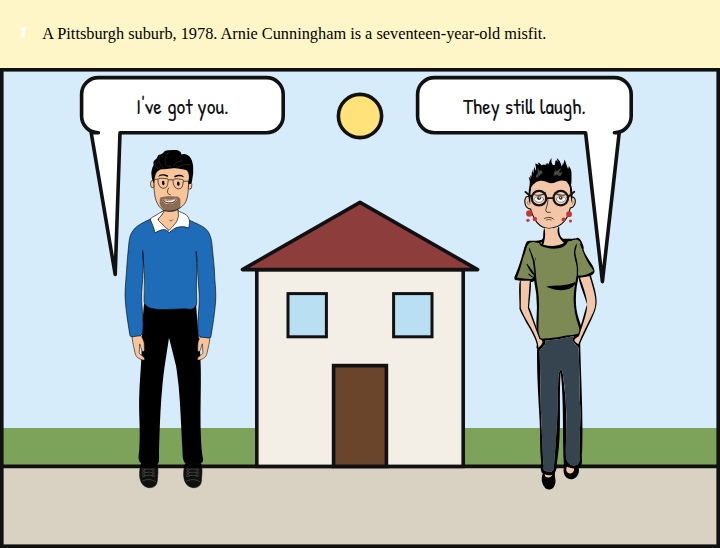
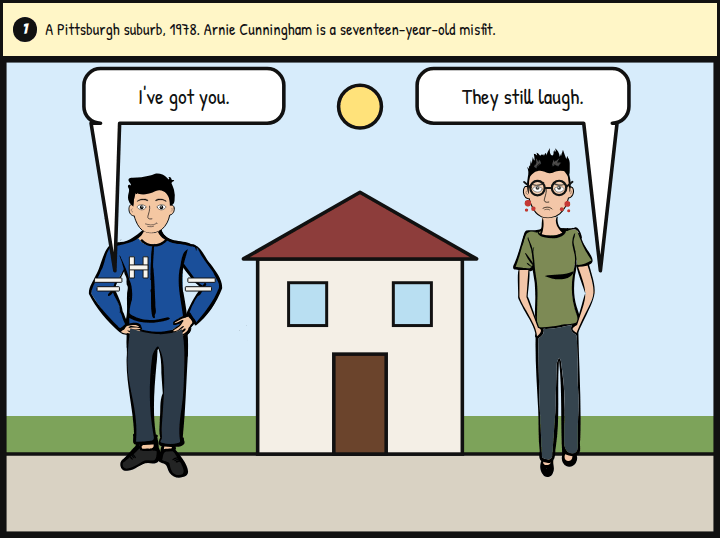
Redraw Dennis as a clean-shaven teenager and fix the car scenes.
Dennis is now a young Aavatar in a blue letterman jacket. Arnie points at the Plymouth, and the night scene shows the whole car under a streetlamp.

Changed region(s): [[0.0, 0.0, 1.0, 1.0], [0.4583, 0.6543, 0.55, 0.684], [0.3972, 0.5948, 0.4583, 0.6245]]

diff --git a/_includes/comicbook-christine.html b/_includes/comicbook-christine.html
@@ -26,10 +26,10 @@
   <rect x="328" y="188" width="32" height="36" fill="#b9dff2" stroke="#111" stroke-width="2.5"/>
   <rect x="278" y="248" width="44" height="84" fill="#6b442c" stroke="#111" stroke-width="3"/>
 </g>
-<image href="{{ '/assets/comics/christine/dennis-smile.svg' | relative_url }}" x="100" y="64" width="84" height="290"/>
+<image href="{{ '/assets/comics/christine/dennis-smile.svg' | relative_url }}" x="68" y="92" width="142" height="264"/>
 <image href="{{ '/assets/comics/christine/arnie-worried.svg' | relative_url }}" x="424" y="70" width="78" height="286"/>
 <g class="bubble">
-<path d="M82,8H222A14,14 0 0 1 236,22V40A14,14 0 0 1 222,54H100L96,172L76,54H82A14,14 0 0 1 68,40V22A14,14 0 0 1 82,8Z" fill="#fff" stroke="#111" stroke-width="3" stroke-linejoin="round"/>
+<path d="M82,8H222A14,14 0 0 1 236,22V40A14,14 0 0 1 222,54H98L94,178L74,54H82A14,14 0 0 1 68,40V22A14,14 0 0 1 82,8Z" fill="#fff" stroke="#111" stroke-width="3" stroke-linejoin="round"/>
 <text x="152" y="38" font-family="'Patrick Hand', 'Comic Neue', 'Comic Sans MS', cursive" font-size="18" fill="#111" text-anchor="middle">I've got you.</text>
 </g>
 <g class="bubble">
@@ -56,7 +56,7 @@
   <rect x="350" y="196" width="30" height="34" fill="#b9dff2" stroke="#111" stroke-width="2.5"/>
   <rect x="286" y="252" width="40" height="84" fill="#6b442c" stroke="#111" stroke-width="3"/>
 </g>
-<image href="{{ '/assets/comics/christine/dennis-curious.svg' | relative_url }}" x="88" y="92" width="78" height="268"/>
+<image href="{{ '/assets/comics/christine/dennis-curious.svg' | relative_url }}" x="66" y="100" width="138" height="257"/>
 <image href="{{ '/assets/comics/christine/leigh-smile.svg' | relative_url }}" x="246" y="78" width="102" height="280"/>
 <image href="{{ '/assets/comics/christine/arnie-blush.svg' | relative_url }}" x="412" y="88" width="90" height="270"/>
 <g class="bubble">
@@ -88,16 +88,16 @@
   <rect x="268" y="146" width="26" height="28" fill="#b9dff2" stroke="#111" stroke-width="2.5"/>
   <rect x="340" y="146" width="26" height="28" fill="#b9dff2" stroke="#111" stroke-width="2.5"/>
 </g>
-<ellipse cx="170" cy="292" rx="34" ry="14" fill="#fff4c4" opacity=".6"/>
-<image href="{{ '/assets/comics/christine/car-rust.svg' | relative_url }}" x="148" y="210" width="320" height="131"/>
-<image href="{{ '/assets/comics/christine/arnie-excited.svg' | relative_url }}" x="78" y="108" width="142" height="264"/>
-<image href="{{ '/assets/comics/christine/dennis-sad-side.svg' | relative_url }}" x="388" y="116" width="116" height="235" transform="translate(892,0) scale(-1,1)"/>
+<ellipse cx="176" cy="227" rx="28" ry="10" fill="#fff4c4" opacity=".75"/>
+<image href="{{ '/assets/comics/christine/car-rust.svg' | relative_url }}" x="150" y="164" width="270" height="110"/>
+<image href="{{ '/assets/comics/christine/arnie-excited.svg' | relative_url }}" x="108" y="160" width="110" height="204"/>
+<image href="{{ '/assets/comics/christine/dennis-sad-side.svg' | relative_url }}" x="384" y="178" width="98" height="186"/>
 <g class="bubble">
-<path d="M82,8H204A14,14 0 0 1 218,22V40A14,14 0 0 1 204,54H96L84,178L70,54H82A14,14 0 0 1 68,40V22A14,14 0 0 1 82,8Z" fill="#fff" stroke="#111" stroke-width="3" stroke-linejoin="round"/>
+<path d="M82,8H204A14,14 0 0 1 218,22V40A14,14 0 0 1 204,54H174L160,232L148,54H82A14,14 0 0 1 68,40V22A14,14 0 0 1 82,8Z" fill="#fff" stroke="#111" stroke-width="3" stroke-linejoin="round"/>
 <text x="143" y="38" font-family="'Patrick Hand', 'Comic Neue', 'Comic Sans MS', cursive" font-size="18" fill="#111" text-anchor="middle">I want her.</text>
 </g>
 <g class="bubble">
-<path d="M374,8H512A14,14 0 0 1 526,22V40A14,14 0 0 1 512,54H520L506,200L492,54H374A14,14 0 0 1 360,40V22A14,14 0 0 1 374,8Z" fill="#fff" stroke="#111" stroke-width="3" stroke-linejoin="round"/>
+<path d="M374,8H512A14,14 0 0 1 526,22V40A14,14 0 0 1 512,54H490L478,250L466,54H374A14,14 0 0 1 360,40V22A14,14 0 0 1 374,8Z" fill="#fff" stroke="#111" stroke-width="3" stroke-linejoin="round"/>
 <text x="443" y="38" font-family="'Patrick Hand', 'Comic Neue', 'Comic Sans MS', cursive" font-size="18" fill="#111" text-anchor="middle">She's a wreck.</text>
 </g>
 <rect x="1.5" y="1.5" width="597" height="397" fill="none" stroke="#111" stroke-width="3"/></svg>
@@ -166,19 +166,22 @@
 <figcaption class="cn-cap"><span class="cn-num" aria-hidden="true">6</span><span>The car's jealousy begins to take him over. TO BE CONTINUED…</span></figcaption>
 <svg class="cn-art" viewBox="0 0 600 400" role="img" aria-labelledby="cn-t6" preserveAspectRatio="xMidYMid meet"><title id="cn-t6">At night Dennis asks Arnie to come back while Arnie stays with Christine</title>
 <rect width="600" height="400" fill="#1b2744"/>
-<circle cx="268" cy="42" r="14" fill="#f4f0dd" stroke="#111" stroke-width="3"/>
-<circle cx="260" cy="38" r="11" fill="#1b2744"/>
+<circle cx="324" cy="30" r="13" fill="#f4f0dd" stroke="#111" stroke-width="3"/>
+<circle cx="318" cy="26" r="10" fill="#1b2744"/>
 <rect y="268" width="600" height="132" fill="#2a3140"/>
 <rect y="304" width="600" height="16" fill="#3e4654"/>
 <g>
-  <rect x="332" y="150" width="10" height="128" fill="#141414" stroke="#111" stroke-width="2"/>
-  <path d="M326,150 H368 L358,166 H332 Z" fill="#2c2c2c" stroke="#111" stroke-width="2" stroke-linejoin="round"/>
-  <ellipse cx="338" cy="188" rx="78" ry="52" fill="#ffe7a0" opacity=".38"/>
+  <path d="M316,96 L258,228 L374,228 Z" fill="#ffd34a"/>
+  <path d="M316,96 L284,214 L348,214 Z" fill="#ffe98a"/>
+  <rect x="312" y="90" width="8" height="150" fill="#f4f1ea" stroke="#111" stroke-width="2"/>
+  <path d="M316,98 H352" stroke="#f4f1ea" stroke-width="6"/>
+  <path d="M340,74 H376 L370,98 H346 Z" fill="#1c1c1c" stroke="#111" stroke-width="2" stroke-linejoin="round"/>
+  <rect x="348" y="80" width="18" height="10" fill="#fff4a0" stroke="#111" stroke-width="1.5"/>
 </g>
-<ellipse cx="170" cy="286" rx="42" ry="16" fill="#fff4c4" opacity=".75"/>
-<image href="{{ '/assets/comics/christine/car-shine.svg' | relative_url }}" x="148" y="210" width="320" height="131"/>
-<image href="{{ '/assets/comics/christine/dennis-sad.svg' | relative_url }}" x="86" y="84" width="82" height="282"/>
-<image href="{{ '/assets/comics/christine/arnie-cunning.svg' | relative_url }}" x="408" y="84" width="102" height="280"/>
+<ellipse cx="214" cy="249" rx="22" ry="8" fill="#fff4c4" opacity=".8"/>
+<image href="{{ '/assets/comics/christine/car-shine.svg' | relative_url }}" x="200" y="195" width="232" height="95"/>
+<image href="{{ '/assets/comics/christine/dennis-sad.svg' | relative_url }}" x="64" y="118" width="128" height="238"/>
+<image href="{{ '/assets/comics/christine/arnie-cunning.svg' | relative_url }}" x="440" y="118" width="86" height="237"/>
 <g class="bubble">
 <path d="M82,6H274A14,14 0 0 1 288,20V40A14,14 0 0 1 274,54H96L88,196L72,54H82A14,14 0 0 1 68,40V20A14,14 0 0 1 82,6Z" fill="#fff" stroke="#111" stroke-width="3" stroke-linejoin="round"/>
 <text x="178" y="38" font-family="'Patrick Hand', 'Comic Neue', 'Comic Sans MS', cursive" font-size="18" fill="#111" text-anchor="middle">Come back, Arnie.</text>
@@ -207,5 +210,5 @@
         <button type="button" class="dot" aria-label="Show scene 6"></button>
     </div>
   </div>
-  <p class="cn-credit">Fan-made, unofficial, and unaffiliated. Not endorsed by Stephen King or Viking Press. Dialogue is original. Arnie Cunningham, Leigh Cabot, and Roland LeBay are <a href="https://gramener.com/comicgen/">Gramener Comicgen</a>'s Aavatar (Devarani B and Ramya Mylavarapu, CC0), with original glasses and blemishes on Arnie. Dennis Guilder is Ethan by Devarani B (CC0). Christine and the backgrounds are original drawings (Comicgen is MIT; character art is CC0). Fonts: Patrick Hand &amp; Bangers (SIL OFL).</p>
+  <p class="cn-credit">Fan-made, unofficial, and unaffiliated. Not endorsed by Stephen King or Viking Press. Dialogue is original. Arnie Cunningham, Leigh Cabot, Roland LeBay, and Dennis Guilder are <a href="https://gramener.com/comicgen/">Gramener Comicgen</a>'s Aavatar (Devarani B and Ramya Mylavarapu, CC0). Arnie's glasses and blemishes, and Dennis's letterman jacket, are original. Christine and the backgrounds are original drawings (Comicgen is MIT; character art is CC0). Fonts: Patrick Hand &amp; Bangers (SIL OFL).</p>
 </section>

diff --git a/README.md b/README.md
@@ -63,9 +63,9 @@ The Running Man strip is fan-made, non-commercial, and based on the public premi
 
 The Gunslinger strip is fan-made, non-commercial, and based on the public premise of *The Dark Tower: The Gunslinger* (Donald M. Grant, June 1982): Roland, the last gunslinger, a lone adult, follows the man in black across a vast desert in a worn-out world, toward the Dark Tower. The strip does not follow the plot past that opening setup. It is unofficial and unaffiliated, and it is not endorsed by Stephen King or his publishers. Roland is built on Comicgen's Ethan, with an original hat, neckerchief, vest, gun belt, and sandalwood-grip revolvers. The man in black and the backgrounds are original drawings in that flat style. Comicgen has no western gunslinger.
 
-The Christine strip is fan-made, non-commercial, and based on the public premise of the novel (Viking Press, April 29, 1983): in a Pittsburgh suburb in 1978, seventeen-year-old misfit Arnie Cunningham, his girlfriend, and his friend Dennis are caught in a love triangle with a haunted 1958 Plymouth Fury. The car's previous owner calls her Christine. Arnie buys the battered car, and once she is restored she is jealous and possessive. Her jealousy begins to take him over. The strip does not follow the plot past that premise. Dialogue is original. It is unofficial and unaffiliated, and it is not endorsed by Stephen King or Viking Press. Arnie, Leigh, and Roland LeBay are Comicgen's Aavatar (Devarani B and Ramya Mylavarapu, CC0); Arnie's glasses and blemishes are original. Dennis is Ethan by Devarani B (CC0). Christine and the backgrounds are original drawings.
+The Christine strip is fan-made, non-commercial, and based on the public premise of the novel (Viking Press, April 29, 1983): in a Pittsburgh suburb in 1978, seventeen-year-old misfit Arnie Cunningham, his girlfriend, and his friend Dennis are caught in a love triangle with a haunted 1958 Plymouth Fury. The car's previous owner calls her Christine. Arnie buys the battered car, and once she is restored she is jealous and possessive. Her jealousy begins to take him over. The strip does not follow the plot past that premise. Dialogue is original. It is unofficial and unaffiliated, and it is not endorsed by Stephen King or Viking Press. Arnie, Leigh, Roland LeBay, and Dennis are Comicgen's Aavatar (Devarani B and Ramya Mylavarapu, CC0). Arnie's glasses and blemishes, and Dennis's letterman jacket, are original. Christine and the backgrounds are original drawings.
 
 - **Comicgen** by Gramener ([gramener.com/comicgen](https://gramener.com/comicgen/), [github.com/gramener/comicgen](https://github.com/gramener/comicgen)); code under MIT.
-- **Character art** uses Comicgen CC0 character assets, including Sophie. The Running Man strip uses Ethan by Devarani B; Dee, Dey, and Ringo by Ramya Mylavarapu; and Bill by Renel McCullum (CC0). Sheila is Dee. The producer is Bill. The baby is original fan art in that flat style. The Gunslinger's Roland is Comicgen's Ethan by Devarani B (CC0), dressed with original western gear. The man in black is an original drawing in that flat style. The Christine strip uses Aavatar by Devarani B and Ramya Mylavarapu (CC0) for Arnie Cunningham, Leigh Cabot, and Roland LeBay, and Ethan by Devarani B (CC0) for Dennis Guilder. Arnie's glasses and blemishes, the Plymouth, and the backgrounds are original drawings in that flat style.
+- **Character art** uses Comicgen CC0 character assets, including Sophie. The Running Man strip uses Ethan by Devarani B; Dee, Dey, and Ringo by Ramya Mylavarapu; and Bill by Renel McCullum (CC0). Sheila is Dee. The producer is Bill. The baby is original fan art in that flat style. The Gunslinger's Roland is Comicgen's Ethan by Devarani B (CC0), dressed with original western gear. The man in black is an original drawing in that flat style. The Christine strip uses Aavatar by Devarani B and Ramya Mylavarapu (CC0) for Arnie Cunningham, Leigh Cabot, Roland LeBay, and Dennis Guilder. Arnie's glasses and blemishes, Dennis's letterman jacket, the Plymouth, and the backgrounds are original drawings in that flat style.
 - **Noto emoji** (envelope) © Google Inc., Apache License 2.0.
 - **Fonts:** Patrick Hand and Bangers, SIL Open Font License 1.1.
